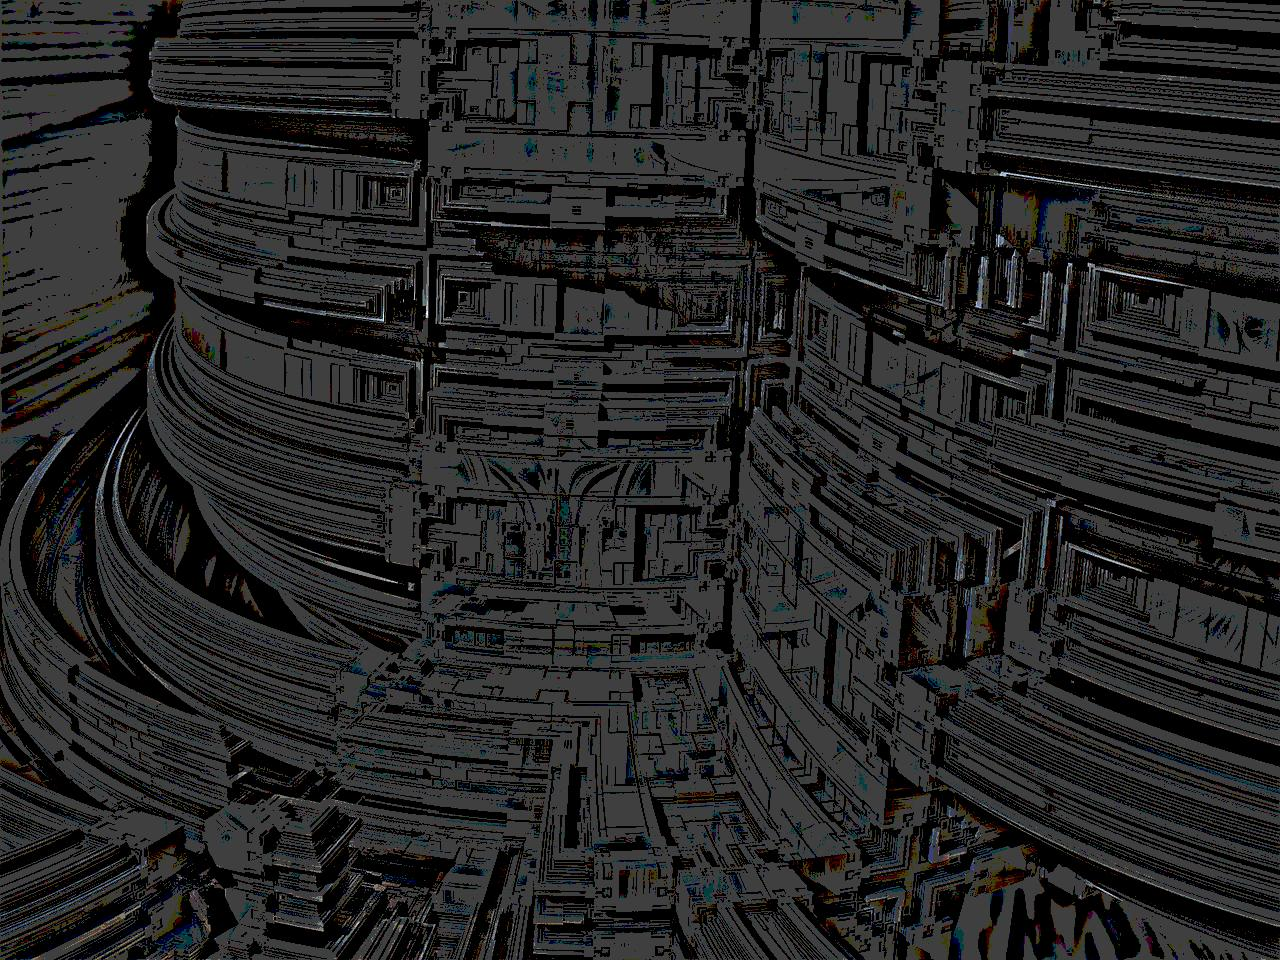
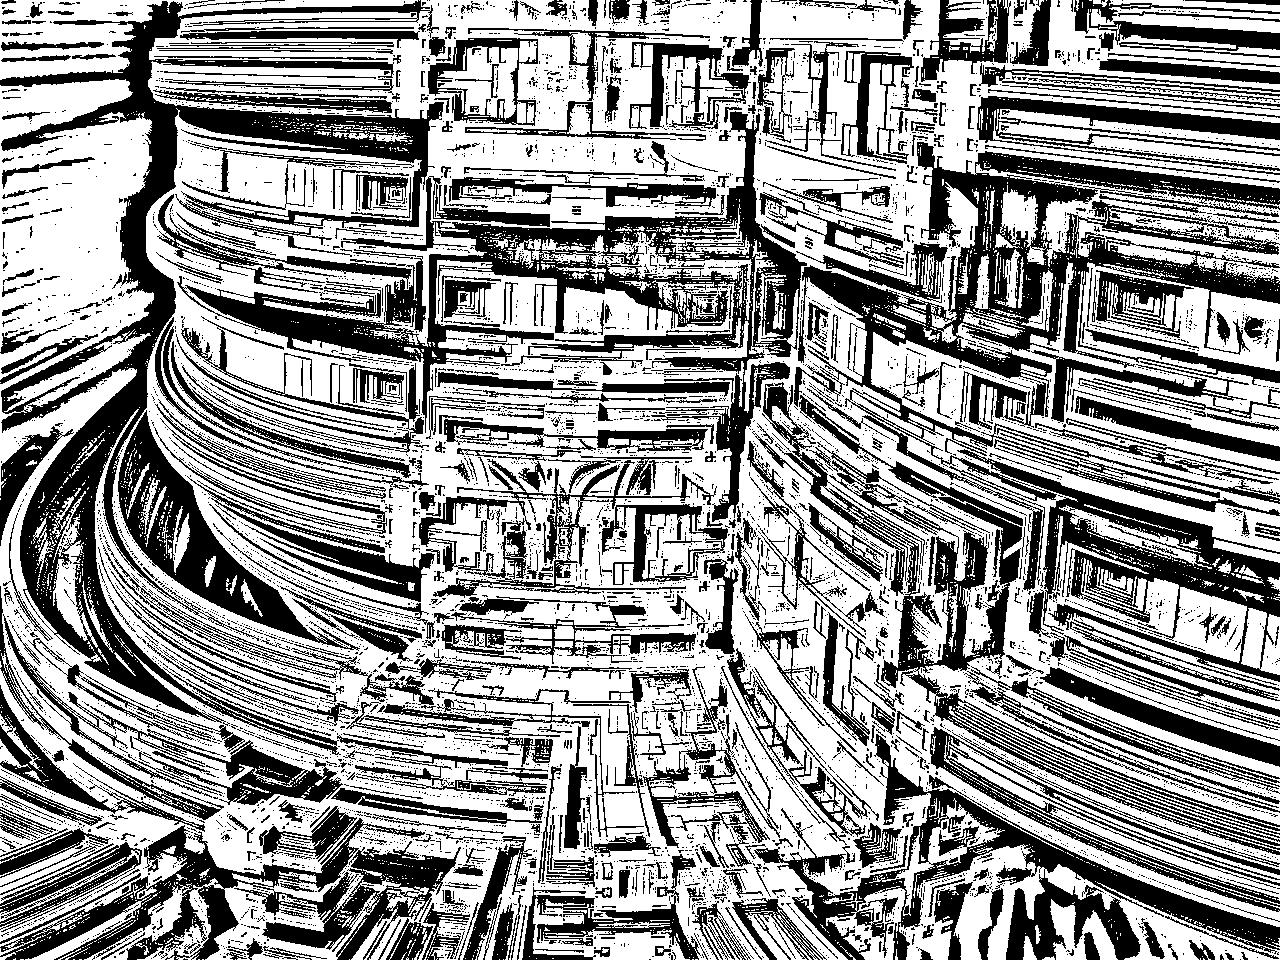
siftsample

diff --git a/実践コンピュータビジョン/harrissample/harrissample.py b/実践コンピュータビジョン/harrissample/harrissample.py
@@ -1,11 +1,13 @@
 # -*- coding: utf-8 -*-
 import sys
 sys.path.append('../scipysample')
+sys.path.append('../matchsample')
 # ここまでおまじない
 import numpy, pylab
 from scipy.ndimage import filters
 from scipy.misc import imsave
 from scipysample import ScipySample
+from matchsample import MatchSample
 
 class HarrisSample(ScipySample):
     def __init__(self, name = "sample_image.jpg"):
@@ -95,7 +97,7 @@ class HarrisSample(ScipySample):
         if self._harris_points is None:
             self.make_harris_points()
         image = self._array_image
-        desc = []
+        desc  = []
         for coords in self._harris_points:
             patch = image[coords[0]-wid:coords[0]+wid+1,
                         coords[1]-wid:coords[1]+wid+1].flatten() 
@@ -107,15 +109,12 @@ class HarrisSample(ScipySample):
         
         return self._harriss_descriptors
 
-class HarrisMatch(object):
+class HarrisMatch(MatchSample):
 
     def __init__(self, image_1 = HarrisSample(), image_2 = HarrisSample()):
-        self._image_1      = image_1
-        self._image_2      = image_2
-        self._append_image = None
-        self._match_score  = None
+        MatchSample.__init__(self, image_1, image_2)
 
-    def harris_match(self ,threshold=0.5):
+    def match(self ,threshold=0.5):
         """ 正規化相互相関を用いて、第1の画像の各コーナー点記述子について、
         第2の画像の対応点を選択する。"""
         if self._image_1.get_descriptors() is None:
@@ -139,32 +138,9 @@ class HarrisMatch(object):
         ndx               = numpy.argsort(-d)
         self._match_score = ndx[:,0]
 
-    def get_harris_match_score(self):
+    def get_match_score(self):
 
         return self._match_score
-
-    def appendimages(self):
-        """ 2つの画像を左右に並べた画像を返す """
-        im1 = self._image_1.get_array_image()
-        im2 = self._image_2.get_array_image()
-
-        # 行の少ない方を選び、空行を0で埋める
-        rows1 = im1.shape[0]
-        rows2 = im2.shape[0]
-        
-        if rows1 < rows2:
-            im1 = numpy.concatenate((im1, numpy.zeros((rows2-rows1,im1.shape[1]))), axis=0)
-        elif rows1 > rows2:
-            im2 = numpy.concatenate((im2, numpy.zeros((rows1-rows2,im2.shape[1]))), axis=0)
-        # 行が同じなら、0で埋める必要はない    
-        self._append_image = numpy.concatenate((im1,im2), axis=1)
-
-    def get_append_image(self):
-        
-        return self._append_image
-
-    def save_append_image(self, name):
-        imsave(name, self._append_image)
 
     def plot_matches(self, name = "harris_match.jpg", show_below = True, match_maximum = None):
         """ 対応点を線で結んで画像を表示する
@@ -185,11 +161,11 @@ class HarrisMatch(object):
             im3 = numpy.vstack((im3,im3))
         pylab.figure(dpi=160)
         pylab.gray()
-        pylab.imshow(im3)
+        pylab.imshow(im3, aspect = "auto")
         
         cols1 = im1.shape[1]
         if self._match_score is None:
-            self.harris_match()
+            self.match()
         if match_maximum is not None:
             self._match_score = self._match_score[:match_maximum]
         for i,m in enumerate(self._match_score):

diff --git a/実践コンピュータビジョン/matchsample/matchsample.py b/実践コンピュータビジョン/matchsample/matchsample.py
@@ -1,0 +1,49 @@
+# -*- coding: utf-8 -*-
+import sys
+sys.path.append('../scipysample')
+# ここまでおまじない
+import numpy, pylab
+from scipy.ndimage import filters
+from scipy.misc import imsave
+from scipysample import ScipySample
+
+class MatchSample(object):
+
+    def __init__(self, image_1 = ScipySample(), image_2 = ScipySample()):
+        self._image_1      = image_1
+        self._image_2      = image_2
+        self._append_image = None
+        self._match_score  = None
+
+    def match(self ,threshold=0.5):
+        raise NotImplementedError
+
+    def get_match_score(self):
+
+        return self._match_score
+
+    def appendimages(self):
+        """ 2つの画像を左右に並べた画像を返す """
+        im1 = self._image_1.get_array_image()
+        im2 = self._image_2.get_array_image()
+
+        # 行の少ない方を選び、空行を0で埋める
+        rows1 = im1.shape[0]
+        rows2 = im2.shape[0]
+        
+        if rows1 < rows2:
+            im1 = numpy.concatenate((im1, numpy.zeros((rows2-rows1,im1.shape[1]))), axis=0)
+        elif rows1 > rows2:
+            im2 = numpy.concatenate((im2, numpy.zeros((rows1-rows2,im2.shape[1]))), axis=0)
+        # 行が同じなら、0で埋める必要はない    
+        self._append_image = numpy.concatenate((im1,im2), axis=1)
+
+    def get_append_image(self):
+        
+        return self._append_image
+
+    def save_append_image(self, name):
+        imsave(name, self._append_image)
+
+    def plot_matches(self):
+        raise NotImplementedError

diff --git a/実践コンピュータビジョン/siftsample/testsiftsample.py b/実践コンピュータビジョン/siftsample/testsiftsample.py
@@ -1,0 +1,30 @@
+import unittest, siftsample
+
+class Test_testsiftsample(unittest.TestCase):
+    def test_make_sift_feature(self):
+        obj = siftsample.SiftSample()
+        obj.make_sift_feature()
+        self.assertEqual(1090.9000000000001, obj.get_shift_location()[0][0])
+        self.assertEqual(0, obj.get_sift_descriptors()[0][0])
+
+    def test_plot_sift_feature(self):
+        obj = siftsample.SiftSample()
+        obj.save("base_image.jpg")
+        obj.plot_sift_feature("circle_sift_point.jpg", True)
+        obj.plot_sift_feature("normal_sift_point.jpg")
+
+    def test_sift_match(self):
+        obj1 = siftsample.SiftSample()
+        obj2 = siftsample.SiftSample("cut_image.jpg")
+        obj  = siftsample.SiftMatch(obj1, obj2)
+        obj.match()
+        self.assertEqual(0, obj.get_match_score()[0])
+
+    def test_plot_matches(self):
+        obj1 = siftsample.SiftSample()
+        obj2 = siftsample.SiftSample("cut_image.jpg")
+        obj  = siftsample.SiftMatch(obj1, obj2)
+        obj.plot_matches("sift_match.jpg")
+
+if __name__ == '__main__':
+    unittest.main()

diff --git a/実践コンピュータビジョン/prob1-3/testprob13.py b/実践コンピュータビジョン/prob1-3/testprob13.py
@@ -2,16 +2,20 @@ import unittest, prob13
 class Test_testprob13(unittest.TestCase):
     def test_make_self_quotient(self):
         obj   = prob13.Prob13()
-        sd_1  = obj.make_self_quotient(1)
+        obj.convert_grey()
+        obj.make_self_quotient(1)
         obj.save('sd_1.jpg')
         obj   = prob13.Prob13()
-        sd_1  = obj.make_self_quotient(5)
+        obj.convert_grey()
+        obj.make_self_quotient(5)
         obj.save('sd_5.jpg')
         obj   = prob13.Prob13()
-        sd_1  = obj.make_self_quotient(10)
+        obj.convert_grey()
+        obj.make_self_quotient(10)
         obj.save('sd_10.jpg')
         obj   = prob13.Prob13()
-        sd_1  = obj.make_self_quotient(20)
+        obj.convert_grey()
+        obj.make_self_quotient(20)
         obj.save('sd_20.jpg')
         
 

diff --git a/実践コンピュータビジョン/harrissample/testharrissample.py b/実践コンピュータビジョン/harrissample/testharrissample.py
@@ -25,8 +25,8 @@ class Test_testharrissample(unittest.TestCase):
         obj1 = harrissample.HarrisSample()
         obj2 = harrissample.HarrisSample("cut_image.jpg")
         obj  = harrissample.HarrisMatch(obj1, obj2)
-        obj.harris_match()
-        self.assertEqual(486, obj.get_harris_match_score()[0])
+        obj.match()
+        self.assertEqual(486, obj.get_match_score()[0])
 
     def test_appendimages(self):
         obj1 = harrissample.HarrisSample()

diff --git a/実践コンピュータビジョン/prob1-3/prob13.py b/実践コンピュータビジョン/prob1-3/prob13.py
@@ -16,6 +16,7 @@ class Prob13(Prob11):
                 new_im[:, :, i] = 255.0 * new_im[:, :, i] / numpy.amax(new_im[:, :, i])
         else:
             new_im = old_im / new_im
+            new_im = new_im >= 1
             new_im = 255.0 * new_im / numpy.amax(new_im)
         self._array_image = new_im
         self._convert_image()
